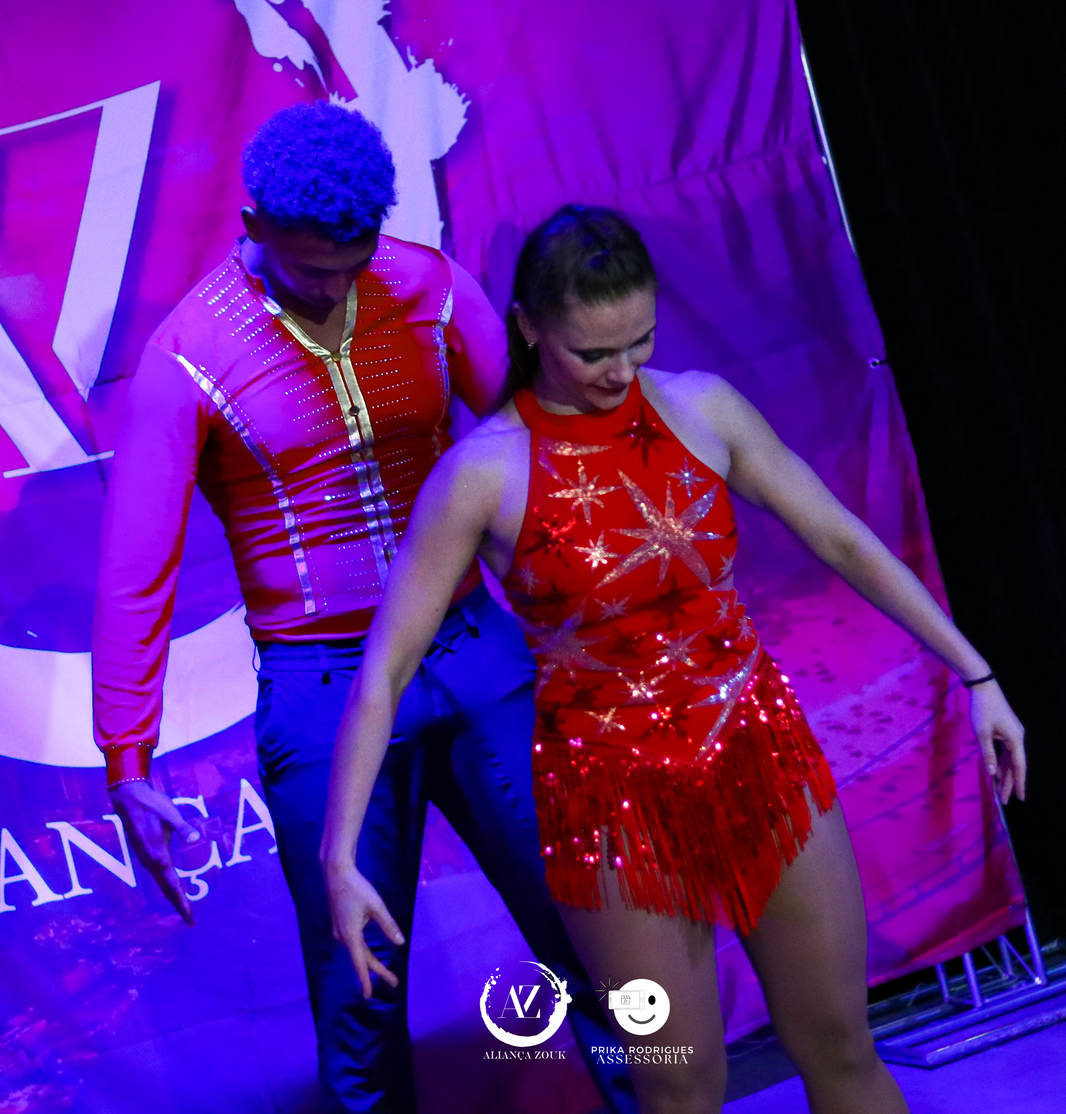
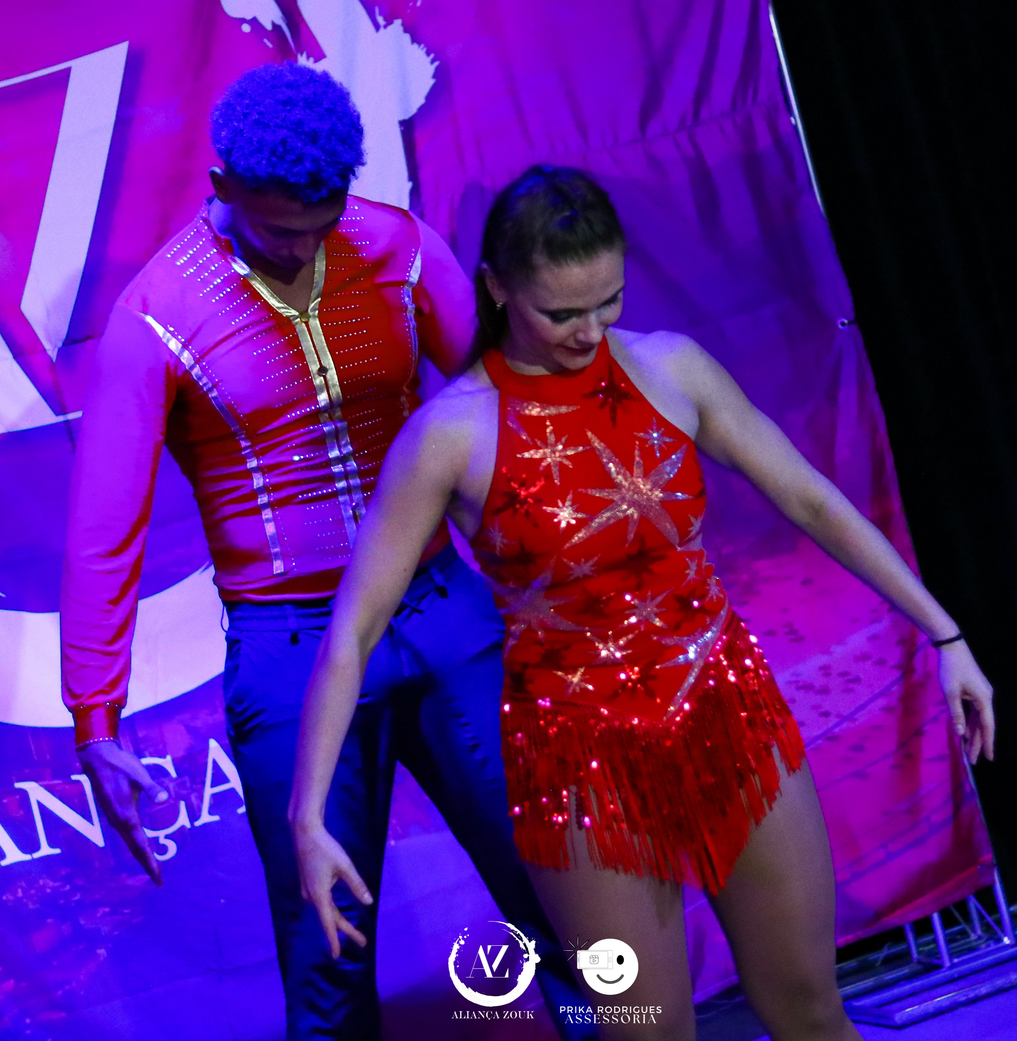
Ajusta seção de Competições: texto 9pt e formatação de resultados em linhas
- Texto da seção Competições em 9pt (títulos mantidos) - Resultados de Liza e Gabriel com 'Xº lugar — evento' em linhas separadas - Atualiza imagens e CSS

diff --git a/style.css b/style.css
@@ -818,7 +818,7 @@ a {
 }
 
 .sobre-intro {
-  font-size: 9.5pt;
+  font-size: 10.5pt;
   line-height: 1.5;
   color: var(--muted);
   max-width: 135mm;
@@ -833,13 +833,13 @@ a {
 .cred-cols {
   display: grid;
   grid-template-columns: 1fr 1fr;
-  gap: 6mm;
-  margin-bottom: 4mm;
+  gap: 9mm;
+  margin-bottom: 5mm;
 }
 
 .cred-col {
   border-top: 1px solid var(--line-dark);
-  padding-top: 2.5mm;
+  padding-top: 4mm;
 }
 
 .cred-name {
@@ -852,7 +852,7 @@ a {
 
 .cred-role {
   font-family: var(--sans);
-  font-size: 6.5pt;
+  font-size: 7pt;
   font-weight: 600;
   letter-spacing: 0.24em;
   text-transform: uppercase;
@@ -863,13 +863,13 @@ a {
 .cred-years {
   font-family: var(--serif);
   font-style: italic;
-  font-size: 11pt;
+  font-size: 11.5pt;
   color: var(--clay-deep);
   margin-bottom: 1.5mm;
 }
 
 .cred-text {
-  font-size: 8.5pt;
+  font-size: 9.5pt;
   line-height: 1.45;
   color: var(--muted);
   margin-bottom: 2mm;
@@ -877,7 +877,7 @@ a {
 
 .cred-sub {
   font-family: var(--sans);
-  font-size: 6.5pt;
+  font-size: 7pt;
   font-weight: 600;
   letter-spacing: 0.22em;
   text-transform: uppercase;
@@ -890,7 +890,7 @@ a {
 }
 
 .cred-list li {
-  font-size: 8pt;
+  font-size: 9pt;
   line-height: 1.4;
   color: var(--muted);
   padding: 0.9mm 0;
@@ -910,7 +910,7 @@ a {
   margin-top: 2mm;
   font-family: var(--serif);
   font-style: italic;
-  font-size: 9pt;
+  font-size: 10pt;
   line-height: 1.4;
   color: var(--muted);
 }
@@ -918,7 +918,7 @@ a {
 .lang-label {
   font-family: var(--sans);
   font-style: normal;
-  font-size: 6.5pt;
+  font-size: 7pt;
   font-weight: 600;
   letter-spacing: 0.2em;
   text-transform: uppercase;
@@ -988,7 +988,7 @@ a {
 
 .traj-col h4 {
   font-family: var(--sans);
-  font-size: 6.5pt;
+  font-size: 7pt;
   font-weight: 600;
   letter-spacing: 0.22em;
   text-transform: uppercase;
@@ -1001,7 +1001,7 @@ a {
 }
 
 .traj-list li {
-  font-size: 8pt;
+  font-size: 9pt;
   line-height: 1.4;
   color: var(--muted);
   padding: 0.9mm 0;
@@ -1047,7 +1047,7 @@ a {
 
 .competition-title {
   font-family: var(--sans);
-  font-size: 6.5pt;
+  font-size: 7pt;
   font-weight: 600;
   letter-spacing: 0.22em;
   text-transform: uppercase;
@@ -1065,7 +1065,7 @@ a {
 
 .compete-sub {
   font-family: var(--sans);
-  font-size: 6pt;
+  font-size: 6.5pt;
   font-weight: 600;
   letter-spacing: 0.2em;
   text-transform: uppercase;
@@ -1079,21 +1079,21 @@ a {
   letter-spacing: 0;
   text-transform: none;
   font-weight: 400;
-  font-size: 8.5pt;
+  font-size: 9pt;
   color: var(--clay-deep);
 }
 
 .compete-who {
   font-family: var(--serif);
   font-style: italic;
-  font-size: 10pt;
+  font-size: 11pt;
   line-height: 1.2;
   color: var(--text);
   margin: 1.5mm 0 0.5mm;
 }
 
-.compete-results {
-  font-size: 7.5pt;
+.compet-results {
+  font-size: 8.5pt;
   line-height: 1.5;
   color: var(--muted);
   margin-bottom: 2mm;
@@ -1103,12 +1103,12 @@ a {
   font-family: var(--serif);
   font-style: italic;
   font-weight: 600;
-  font-size: 9pt;
+  font-size: 10pt;
   color: var(--clay-deep);
 }
 
 .compete-note {
-  font-size: 7.5pt;
+  font-size: 8.5pt;
   font-style: italic;
   line-height: 1.4;
   color: var(--muted);

diff --git a/print-site.css b/print-site.css
@@ -809,7 +809,7 @@ a {
 }
 
 .sobre-intro {
-  font-size: 9.5pt;
+  font-size: 10.5pt;
   line-height: 1.5;
   color: var(--muted);
   max-width: 135mm;
@@ -824,13 +824,13 @@ a {
 .cred-cols {
   display: grid;
   grid-template-columns: 1fr 1fr;
-  gap: 6mm;
-  margin-bottom: 4mm;
+  gap: 9mm;
+  margin-bottom: 5mm;
 }
 
 .cred-col {
   border-top: 1px solid var(--line-dark);
-  padding-top: 2.5mm;
+  padding-top: 4mm;
 }
 
 .cred-name {
@@ -843,7 +843,7 @@ a {
 
 .cred-role {
   font-family: var(--sans);
-  font-size: 6.5pt;
+  font-size: 7pt;
   font-weight: 600;
   letter-spacing: 0.24em;
   text-transform: uppercase;
@@ -854,13 +854,13 @@ a {
 .cred-years {
   font-family: var(--serif);
   font-style: italic;
-  font-size: 11pt;
+  font-size: 11.5pt;
   color: var(--clay-deep);
   margin-bottom: 1.5mm;
 }
 
 .cred-text {
-  font-size: 8.5pt;
+  font-size: 9.5pt;
   line-height: 1.45;
   color: var(--muted);
   margin-bottom: 2mm;
@@ -868,7 +868,7 @@ a {
 
 .cred-sub {
   font-family: var(--sans);
-  font-size: 6.5pt;
+  font-size: 7pt;
   font-weight: 600;
   letter-spacing: 0.22em;
   text-transform: uppercase;
@@ -881,7 +881,7 @@ a {
 }
 
 .cred-list li {
-  font-size: 8pt;
+  font-size: 9pt;
   line-height: 1.4;
   color: var(--muted);
   padding: 0.9mm 0;
@@ -901,7 +901,7 @@ a {
   margin-top: 2mm;
   font-family: var(--serif);
   font-style: italic;
-  font-size: 9pt;
+  font-size: 10pt;
   line-height: 1.4;
   color: var(--muted);
 }
@@ -909,7 +909,7 @@ a {
 .lang-label {
   font-family: var(--sans);
   font-style: normal;
-  font-size: 6.5pt;
+  font-size: 7pt;
   font-weight: 600;
   letter-spacing: 0.2em;
   text-transform: uppercase;
@@ -979,7 +979,7 @@ a {
 
 .traj-col h4 {
   font-family: var(--sans);
-  font-size: 6.5pt;
+  font-size: 7pt;
   font-weight: 600;
   letter-spacing: 0.22em;
   text-transform: uppercase;
@@ -992,7 +992,7 @@ a {
 }
 
 .traj-list li {
-  font-size: 8pt;
+  font-size: 9pt;
   line-height: 1.4;
   color: var(--muted);
   padding: 0.9mm 0;
@@ -1038,7 +1038,7 @@ a {
 
 .competition-title {
   font-family: var(--sans);
-  font-size: 6.5pt;
+  font-size: 7pt;
   font-weight: 600;
   letter-spacing: 0.22em;
   text-transform: uppercase;
@@ -1056,7 +1056,7 @@ a {
 
 .compete-sub {
   font-family: var(--sans);
-  font-size: 6pt;
+  font-size: 6.5pt;
   font-weight: 600;
   letter-spacing: 0.2em;
   text-transform: uppercase;
@@ -1094,7 +1094,7 @@ a {
   font-family: var(--serif);
   font-style: italic;
   font-weight: 600;
-  font-size: 9pt;
+  font-size: 10pt;
   color: var(--clay-deep);
 }
 

diff --git a/index.html b/index.html
@@ -6,6 +6,12 @@
     <meta name="description" content="Liza &amp; Gabriel — Zouk Brasileiro. Do primeiro passo ao prazer de dançar em dupla. Proposta de turma para iniciantes no Rio de Janeiro.">
     <title>Liza &amp; Gabriel — Zouk Brasileiro</title>
     <link rel="stylesheet" href="print-site.css">
+    <style>
+        #sobre .compete-sub,
+        #sobre .compete-who,
+        #sobre .compete-results,
+        #sobre .compete-note { font-size: 9pt !important; }
+    </style>
 </head>
 <body>
 
@@ -246,14 +252,14 @@
                         <div class="compete-block">
                             <p class="compete-sub">Jack &amp; Jill &#8212; <em>Intermediário</em></p>
                             <p class="compete-who">Liza</p>
-                            <p class="compete-results"><span class="c-rank">1&ordm;</span> Aliança Zouk 2026 ・ <span class="c-rank">2&ordm;</span> Aliança Zouk 2025<br><span class="c-rank">2&ordm;</span> Zouk Hour 2025 ・ <span class="c-rank">3&ordm;</span> Zouk in Rio 2025</p>
+                            <p class="compete-results"><span class="c-rank">1&ordm; lugar</span> — Aliança Zouk 2026<br><span class="c-rank">2&ordm; lugar</span> — Aliança Zouk 2025<br><span class="c-rank">2&ordm; lugar</span> — Zouk Hour 2025<br><span class="c-rank">3&ordm; lugar</span> — Zouk in Rio 2025</p>
                             <p class="compete-who">Gabriel</p>
                             <p class="compete-note">Competindo atualmente no nível Intermediário</p>
                         </div>
                         <div class="compete-block">
                             <p class="compete-sub">Jack &amp; Jill &#8212; <em>Novice</em></p>
                             <p class="compete-who">Gabriel</p>
-                            <p class="compete-results"><span class="c-rank">1&ordm;</span> Aliança Zouk 2025 ・ <span class="c-rank">2&ordm;</span> Zouk Hour 2025</p>
+                            <p class="compete-results"><span class="c-rank">1&ordm; lugar</span> — Aliança Zouk 2025<br><span class="c-rank">2&ordm; lugar</span> — Zouk Hour 2025</p>
                             <p class="compete-sub">Combatchy</p>
                             <p class="compete-results"><span class="c-rank">2&ordm; lugar</span> &#8212; 2026 | Profissional<br><span class="c-rank">3&ordm; lugar</span> &#8212; 2025 | Profissional/Semiprofissional</p>
                         </div>
